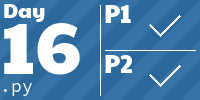
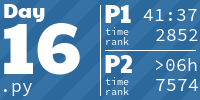
day 16

diff --git a/day_16.py b/day_16.py
@@ -1,5 +1,7 @@
 import argparse
+import math
 
+from heapq import heappop, heappush
 from pathlib import Path
 from time import time
 
@@ -16,13 +18,73 @@ def _parse_args() -> argparse.Namespace:
         parser.error("Which part are you solving?")
     return args
 
+DIR_TO_COMPLEX = {
+    "E": 1,
+    "N": 1j,
+    "W": -1,
+    "S": -1j,
+}
+
+DIR_TO_NEXT = {
+    "E": ("N", "S"),
+    "N": ("W", "E"),
+    "W": ("S", "N"),
+    "S": ("E", "W"),
+}
+
+def parse_input(raw: str, i: int) -> None | complex:
+    start = None
+    for r, char in enumerate(raw):
+        data[complex(r, -i)] = char
+        if char == "S":
+            start = complex(r, -i)
+    return start
+
+def maze(*, is_part_two: bool) -> int:
+    best_path = math.inf
+    seats = []
+    seen = {}
+    direction = "E"
+    queue = []
+    heappush(queue, (0, start.real, start.imag, direction, []))
+    while queue:
+        # path saving considerably slows down part 1, but meh.
+        dist, r, i, d_str, path = heappop(queue)
+        if dist > best_path:
+            return len(set(seats)) + 1
+        d = DIR_TO_COMPLEX[d_str]
+        pos = complex(r, i)
+        if data[pos] == "E":
+            if not is_part_two:
+                return dist
+            best_path = dist
+            seats.extend(path)
+            continue
+        seen[(d_str, pos)] = True
+        new_path = path + [(r, i)]
+        # forward
+        forward = pos + d
+        if data[forward] != "#" and (d_str, forward) not in seen:
+            heappush(queue, (dist + 1, forward.real, forward.imag, d_str, new_path))
+        # right and left
+        for rot_str in DIR_TO_NEXT[d_str]:
+            rot = DIR_TO_COMPLEX[rot_str]
+            rotated = pos + rot
+            if data[rotated] != "#" and (d_str, rotated) not in seen:
+                    heappush(queue, (dist + 1001, rotated.real, rotated.imag, rot_str, new_path))
+    return 0  
+
+
 if __name__ == "__main__":
     args = _parse_args()
     t = time()
+    data = {}
+    start = None
     with Path(f"inputs/{Path(__file__).stem}.txt").open("r") as file:
-        data = file.read()
-    if args.part == 1:
-        print(data)
-    else:
-        raise NotImplementedError
+        i = 0
+        while line := file.readline():
+            s = parse_input(line.strip(), i)
+            start = start or s
+            i += 1
+    print(maze(is_part_two=args.part == 2))
     print(time() - t)

diff --git a/README.md b/README.md
@@ -2,7 +2,7 @@
 
 <!-- AOC TILES BEGIN -->
 <h1 align="center">
-  2024 - 30 ⭐ - Python
+  2024 - 32 ⭐ - Python
 </h1>
 <a href="day_01.py">
   <img src=".aoc_tiles/tiles/2024/01.png" width="161px">
@@ -49,6 +49,9 @@
 <a href="day_15.py">
   <img src=".aoc_tiles/tiles/2024/15.png" width="161px">
 </a>
+<a href="day_16.py">
+  <img src=".aoc_tiles/tiles/2024/16.png" width="161px">
+</a>
 <!-- AOC TILES END -->
 
 <hr>
@@ -68,6 +71,8 @@ Day 9: like day 7, poor choice of data structure (str instead of list) lead to w
 Day 11: Thought I was clever using a linked list, except that it doesn't make any sense here. A shower later, my thought were in place and used a simple and wey more efficient approach.
 
 Day 14 part 2 was a mess. Tried to look for a global symmetrical pattern, didn't work. Then I looked for a frame, but again, I thought there would be no more noise left, so I didn't get it write. I had an upper bound (by submitting random answers) so I just printed all grids and looked at them... to find a tree after 140k sec, which was too high. But at least, I knew what I was searching for, so it was easier to implement something.
+
+Day 16 part 2 could be better. But it took me a while and runs in about 10sec, so that's it for me today!
 
 <hr>
 
